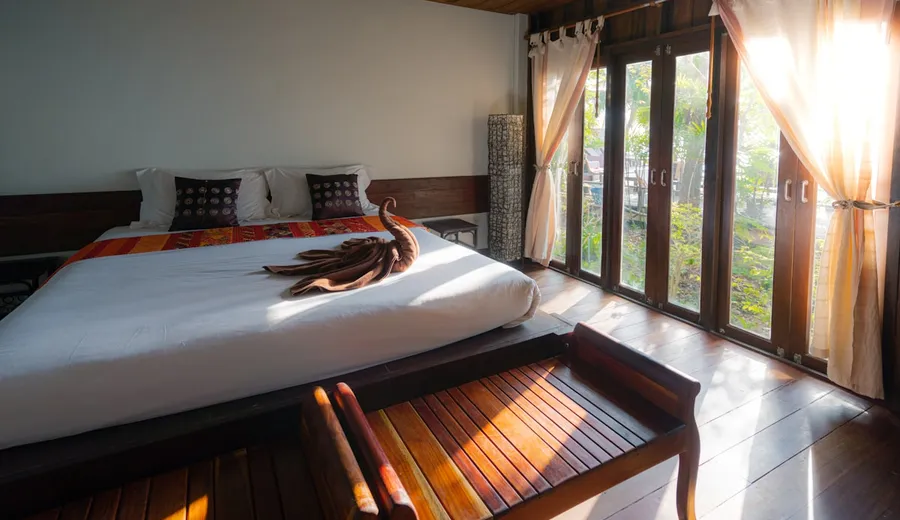
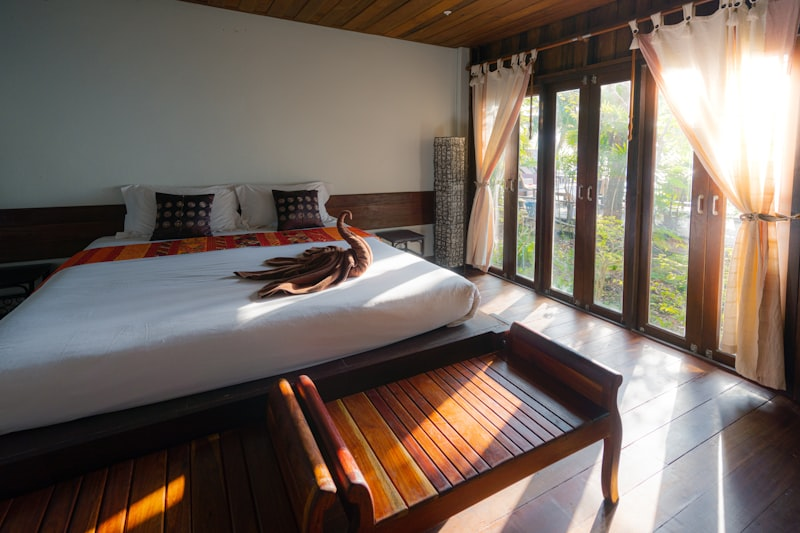
fix(workshop): eliminate top blank gap, fit hero to screen, replace bed image with authentic clinical lab workstation

diff --git a/src/routes/healthcare-career-workshop.tsx b/src/routes/healthcare-career-workshop.tsx
@@ -293,10 +293,13 @@ export default function HealthcareCareerWorkshopPage() {
 
   return (
     <div className="relative min-h-screen bg-[#FAF8F5] text-stone-900 font-sans selection:bg-[#1B3F8B]/20 selection:text-[#0B1325]">
+      {/* Primary Fixed Navigation */}
+      <Nav />
+
       {/* ─────────────────────────────────────────────────────────────
-          EVENT ANNOUNCEMENT STRIP (Configurable from workshopConfig)
+          EVENT ANNOUNCEMENT STRIP (Positioned cleanly below fixed Nav)
          ───────────────────────────────────────────────────────────── */}
-      <div className="w-full bg-[#0B1325] text-white border-b border-white/10 px-4 py-2.5 sm:py-3 sticky top-0 z-50 shadow-md">
+      <div className="w-full bg-[#0B1325] text-white border-b border-white/10 px-4 py-2 sm:py-2.5 mt-14 relative z-30 shadow-xs">
         <div className="mx-auto max-w-7xl flex flex-col sm:flex-row items-center justify-between gap-2 text-center sm:text-left">
           <div className="flex items-center gap-2">
             <span className="inline-flex items-center px-2 py-0.5 rounded-full bg-emerald-500/20 text-emerald-300 font-mono text-[10px] font-bold tracking-wider uppercase border border-emerald-500/30">
@@ -323,19 +326,17 @@ export default function HealthcareCareerWorkshopPage() {
         </div>
       </div>
 
-      <Nav />
-
       {/* 3D WebGL Particle Canvas (Background) */}
       <MemoizedHealthcare3dCanvas className="absolute inset-0 pointer-events-none opacity-40 z-0" />
 
       {/* Social Proof Floating Ticker */}
       <LiveSocialProofTicker />
 
-      <main className="relative z-10 pt-16 sm:pt-20">
+      <main className="relative z-10 pt-0">
         {/* ─────────────────────────────────────────────────────────────
             01 · HERO SECTION: 2-FIELD FAST FORM + DUAL-COLUMN LAYOUT
            ───────────────────────────────────────────────────────────── */}
-        <section className="relative border-b border-stone-200/90 py-12 sm:py-18 overflow-hidden">
+        <section className="relative border-b border-stone-200/90 pt-6 sm:pt-8 pb-12 sm:pb-16 overflow-hidden">
           <div className="mx-auto max-w-7xl px-4 sm:px-6 lg:px-8">
             <div className="grid grid-cols-1 lg:grid-cols-12 gap-10 lg:gap-12 items-center">
               {/* Left Column: Core Value Proposition & Fast Form */}
@@ -773,16 +774,16 @@ export default function HealthcareCareerWorkshopPage() {
                   <div className="relative">
                     <img
                       src={researcherImg}
-                      alt="Real Healthcare Clinical Research Laboratory"
+                      alt="Enterprise Clinical Research & Safety Operations Workstation"
                       className="w-full h-44 object-cover object-center"
                       loading="lazy"
                     />
                     <div className="absolute top-2.5 left-2.5 px-2.5 py-1 rounded-full bg-slate-900/80 backdrop-blur-md text-white font-mono text-[9px] font-bold tracking-wider uppercase border border-white/15">
-                      REAL CLINICAL LAB ENVIRONMENT
+                      CLINICAL DATA WORKSTATION
                     </div>
                   </div>
                   <div className="p-3.5 bg-stone-50/90 border-t border-stone-200 text-xs font-sans text-stone-700 flex items-center justify-between">
-                    <span className="font-semibold text-stone-800">Enterprise Research Facility</span>
+                    <span className="font-semibold text-stone-800">Enterprise Safety Operations</span>
                     <span className="font-mono text-[10px] text-[#1B3F8B] font-extrabold">ORACLE ARGUS &amp; CTMS</span>
                   </div>
                 </div>
